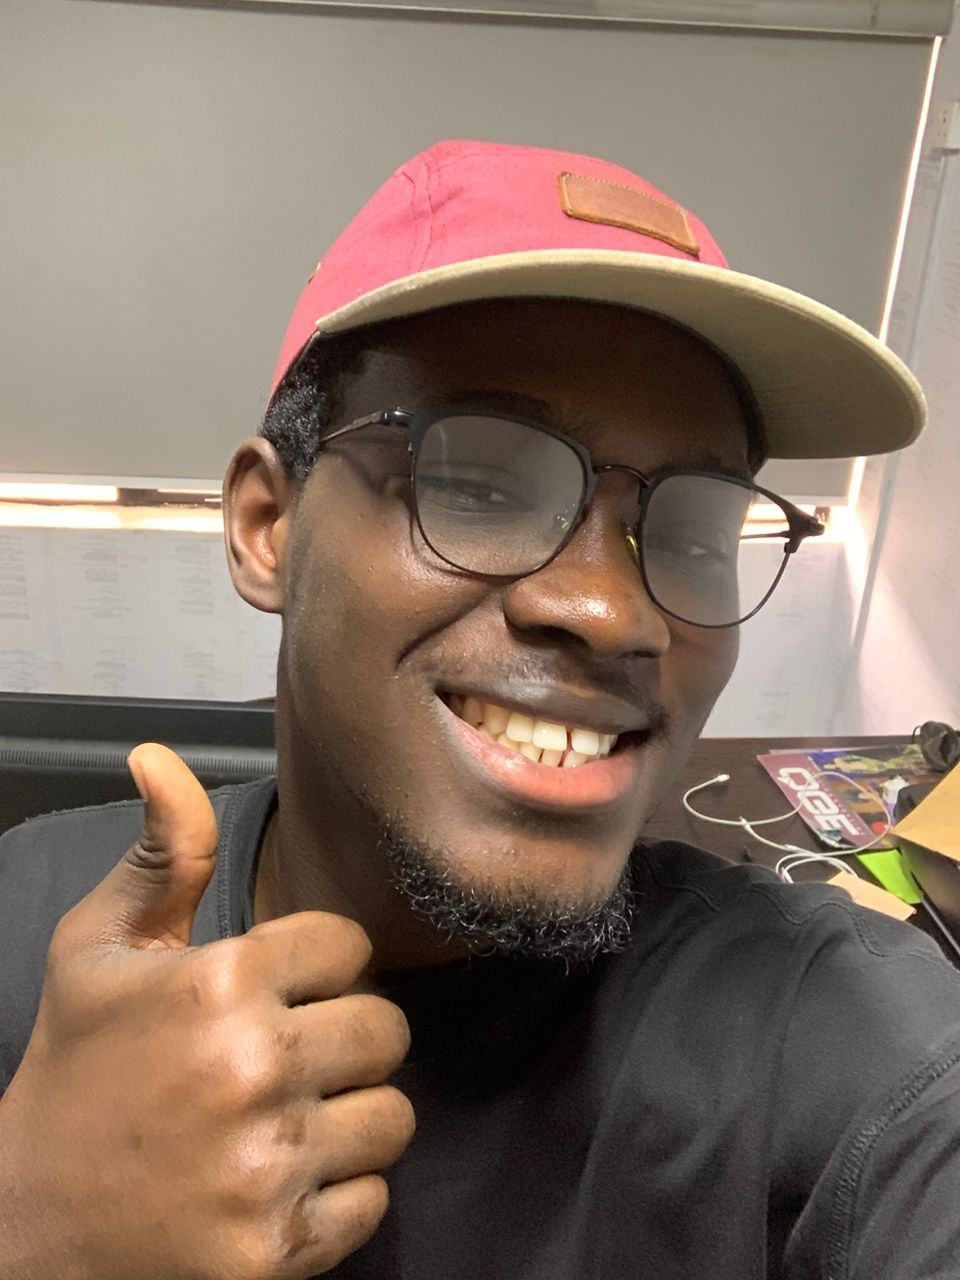
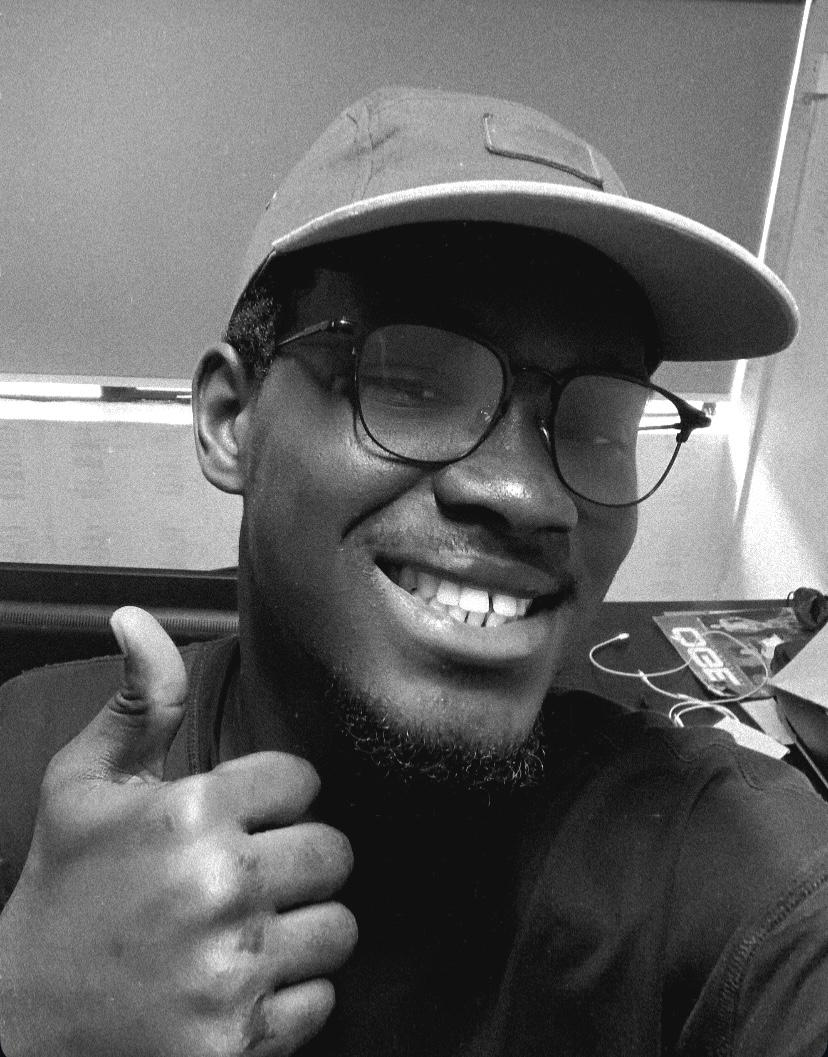
fourth changes

diff --git a/src/utils/data.ts b/src/utils/data.ts
@@ -52,17 +52,17 @@ export const socials = [
   {
     id: 1,
     icon: AiOutlineWhatsApp,
-    link: "https://wa.link/b5zn3u",
+    link: "https://wa.link/f93b5l",
   },
   {
     id: 2,
     icon: AiOutlineTwitter,
-    link: "https://x.com/foyinjohn",
+    link: "https://x.com/dontjeffit",
   },
   {
     id: 3,
     icon: AiOutlineGithub,
-    link: "https://github.com/Fasasifoyin",
+    link: "https://github.com/dontjeffit",
   },
   {
     id: 4,

diff --git a/index.html b/index.html
@@ -2,7 +2,7 @@
 <html lang="en">
   <head>
     <meta charset="UTF-8" />
-    <link rel="icon" type="image/svg+xml" href="https://res.cloudinary.com/dbxvk3apv/image/upload/v1697842761/Metaversus/WhatsApp_Image_2023-10-20_at_12.58.48_fitml4.webp" />
+    <link rel="icon" type="image/svg+xml" href="/images/mypic.jpg" />
     <meta name="viewport" content="width=device-width, initial-scale=1.0" />
     <title>Jefferson Anu-John</title>
   </head>

diff --git a/src/components/nav/Navbar.tsx b/src/components/nav/Navbar.tsx
@@ -77,7 +77,7 @@ const Navbar = () => {
           boxShadow={{ base: "0 -3px 0px rgba(0, 0, 0, 0.1)", md: "none" }}
         >
           <Link to="/" spy={true} smooth={true} duration={500} offset={-80}>
-            <p className="text-white fw-bold cursor">Foyin</p>
+            <p className="text-white fw-bold cursor">Jefferson</p>
           </Link>
           <Links />
           <Icon

diff --git a/src/components/hero/Home.tsx b/src/components/hero/Home.tsx
@@ -44,7 +44,7 @@ const Home = () => {
               borderRadius={"60%"}
               alt="picture"
               objectFit={"cover"}
-              src="https://res.cloudinary.com/dbxvk3apv/image/upload/v1697842761/Metaversus/WhatsApp_Image_2023-10-20_at_12.58.48_fitml4.webp"
+              src="/images/myphoto.jpg"
             />
           </Box>
         </Flex>

diff --git a/src/components/Extra.tsx b/src/components/Extra.tsx
@@ -44,7 +44,7 @@ const Extra = () => {
         </p>
         <Flex justify={{ base: "center", md: "start" }}>
           <a
-            href="https://wa.link/b5zn3u"
+            href="mailto:anujohnjeff@gmail.com"
             target="_blank"
             rel="noopener noreferrer"
           >
